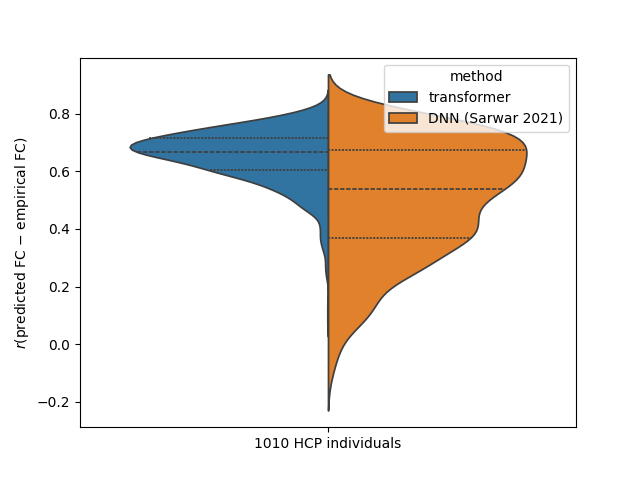
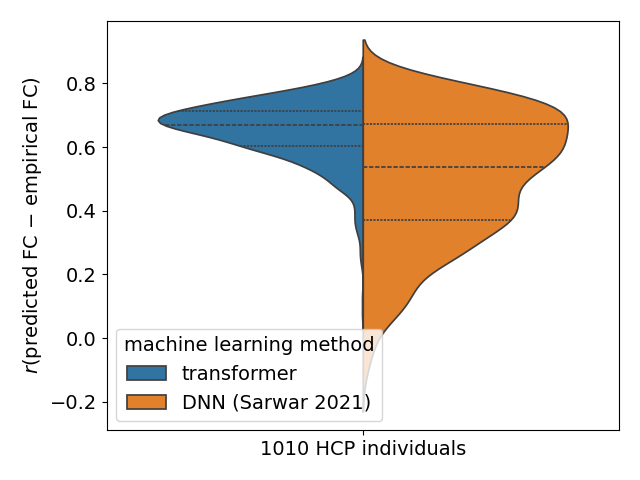
make figure labels larger

diff --git a/predFC/compare.py b/predFC/compare.py
@@ -15,6 +15,31 @@ import pandas as pd
 import seaborn as sns
 import matplotlib.pyplot as plt
 
+plt.rcParams.update({'font.size': 14})  #uniformly increase fontsize of figure
+
+
+def plotout(df):
+    ax = sns.violinplot(data=df, x='subset', y='corr', hue='machine learning method', inner='quart', split=True)
+    sns.move_legend(ax, "lower left")
+    plt.xlabel('')
+    plt.ylabel('$r$(predicted FC $-$ empirical FC)')
+
+    plt.tight_layout()
+    plt.show()
+
+
+def organize_data(num_subs, output_data, pred_data, compare_pred_data):
+    outputs = []
+    for i in range(num_subs):
+        corr, pval = pearsonr(pred_data[i], output_data[i])
+        outputs.append([corr, '{0} HCP individuals'.format(num_subs), 'transformer'])
+
+        comp_corr, comp_pval = pearsonr(compare_pred_data[i], output_data[i])
+        outputs.append([comp_corr, '{0} HCP individuals'.format(num_subs), 'DNN (Sarwar 2021)'])
+
+    df = pd.DataFrame(outputs, columns = ['corr', 'subset', 'machine learning method'])
+    return df
+
 
 if __name__ == "__main__":
 
@@ -27,16 +52,5 @@ if __name__ == "__main__":
     compare_pred_data = compare_out_data['predicted'] #input_data, output_data are the same
     num_subs = pred_data.shape[0]
 
-    outputs = []
-    for i in range(num_subs):
-        corr, pval = pearsonr(pred_data[i], output_data[i])
-        outputs.append([corr, '{0} HCP individuals'.format(num_subs), 'transformer'])
-
-        comp_corr, comp_pval = pearsonr(compare_pred_data[i], output_data[i])
-        outputs.append([comp_corr, '{0} HCP individuals'.format(num_subs), 'DNN (Sarwar 2021)'])
-
-    df = pd.DataFrame(outputs, columns = ['corr', 'subset', 'method'])
-    sns.violinplot(data=df, x='subset', y='corr', hue='method', inner='quart', split=True)
-    plt.xlabel('')
-    plt.ylabel('$r$(predicted FC $-$ empirical FC)')
-    plt.show()
+    df = organize_data(num_subs, output_data, pred_data, compare_pred_data)
+    plotout(df)
